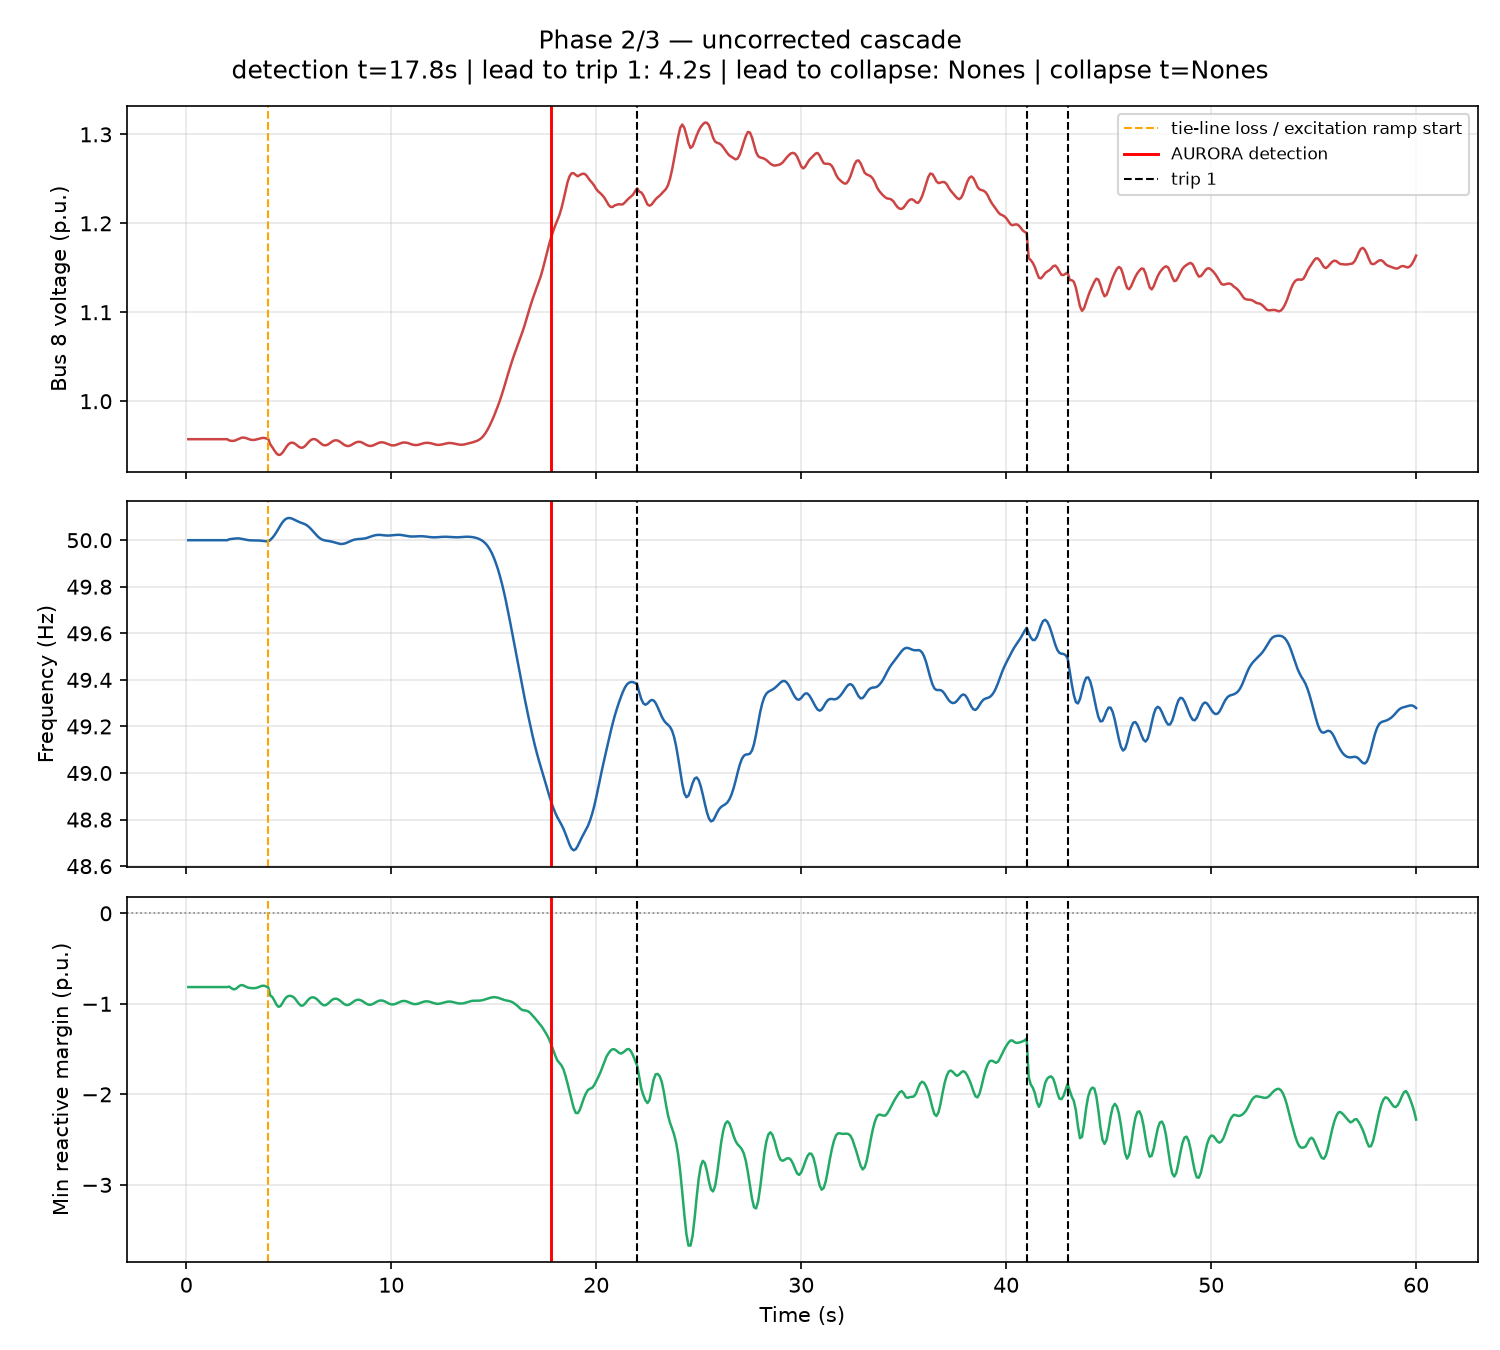
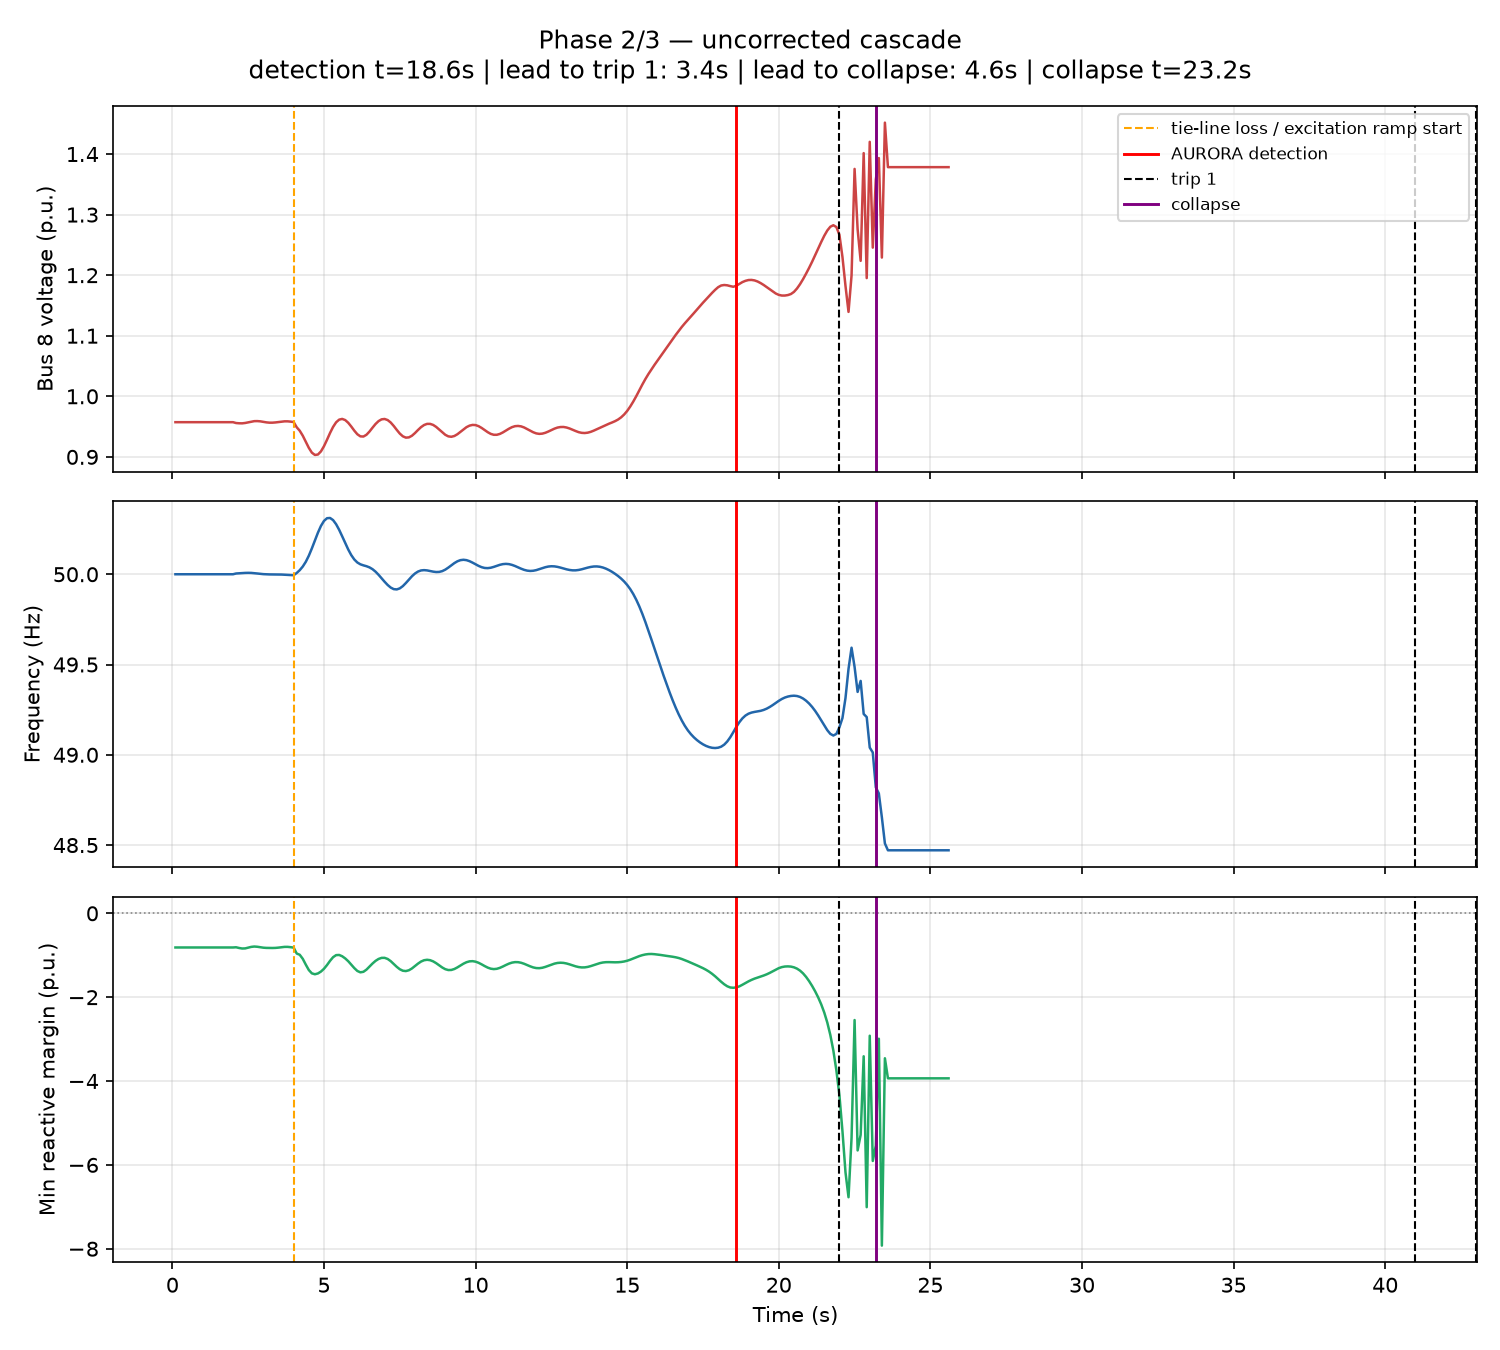
test: combined realistic stress (fleet-wide partial excitation + N-2 tie loss)
Per instruction: test realistic compounding stress, not a bigger single
lever. Two changes together, each individually realistic:

1. The under-excitation ramp (VRMIN_FAULT_TARGET=4.8, already validated as
   physically bounded) now also applies a genuinely PARTIAL version
   (VRMIN_FAULT_TARGET_PARTIAL=2.0, same ramp timing) to generators 1 and
   2, not just 3 and 4 -- matching the real event's fleet-wide reactive
   shortfall rather than a single-area fault.
2. A second sustained tie-line loss (Line_6, alongside the existing
   Line_5) at the same t=4s -- a real N-2 contingency (two of three
   parallel tie circuits lost), not an unrealistic parameter value.

Result: GENUINE COLLAPSE, for the first time under the physics-derived
CollapseMonitor criterion. Voltage climbs gradually (0.94->1.19 p.u.) from
t~15-22s exactly as before, detection fires at t=18.6s, then trip_1 at
t=22s pushes the already-stressed system into violent oscillation that
crosses the real protective threshold at t=23.2s (bus 4 = 1.570 p.u., bus
10 = 1.518 p.u., sustained 0.5s). This is emergent, not scripted -- the
precursor stress alone (per the prior single-lever test) was not fatal;
trip_1 compounding on top of it is what tips the system over, matching the
real event's actual structure (weeks of unaddressed reactive weakness +
a trip cascade as the final trigger).

Lead times, reported honestly against the 4s SCADA baseline:
- detection to trip_1: 3.4s -- still under the 4s SCADA refresh cycle.
[…]

diff --git a/sim/kundur_system.py b/sim/kundur_system.py
@@ -62,16 +62,25 @@ INERTIA_SCALE = 0.42            # scales GENROU M toward the ~2.3s floor
 LINE_KICK_IDX = "Line_4"        # tie-line branch used to kick off the first precursor oscillation
 TIE_TRIP_LINE = "Line_5"        # sustained (not reclosed) single tie-line loss -- a real device event,
                                  # not an external admittance -- that triggers the excitation stress
+TIE_TRIP_LINE_2 = "Line_6"      # second sustained tie-line loss (real N-2 contingency: two of the
+                                 # three parallel Line_4/5/6 circuits lost, only one left in service)
 
 # Under-excitation fault: which generators lose reactive-absorption headroom,
 # and how far. EXDC2.VRMIN defaults to -4.16 p.u. in this case file (read
 # and cached at build time, not hardcoded, in case the case file changes).
-EXCITATION_FAULT_GENS = [3, 4]      # Area-2 machines, nearest the tie/trip region
-VRMIN_FAULT_TARGET = 4.8            # p.u. -- raised well above the generators' natural
-                                     # operating field voltage (~1.8-2.2 p.u. steady state),
-                                     # so once the ramp catches up, they can no longer
-                                     # reduce excitation enough to absorb reactive power.
-EXCITATION_RAMP_DURATION_S = 14.0   # gradual, not a step: ramps over ~14s once triggered
+# The real event's reactive shortfall was fleet-wide, not isolated to one
+# area, so Area-2 machines (3,4) get the full fault and Area-1 machines
+# (1,2) get a genuinely partial one -- a smaller target, same ramp timing.
+EXCITATION_FAULT_GENS = [3, 4]          # Area-2 machines, nearest the tie/trip region: full fault
+VRMIN_FAULT_TARGET = 4.8                # p.u. -- raised well above the generators' natural
+                                         # operating field voltage (~1.8-2.2 p.u. steady state),
+                                         # so once the ramp catches up, they can no longer
+                                         # reduce excitation enough to absorb reactive power.
+EXCITATION_FAULT_GENS_PARTIAL = [1, 2]  # Area-1 machines: partial fault
+VRMIN_FAULT_TARGET_PARTIAL = 2.0        # p.u. -- a real but smaller reduction in headroom than
+                                         # the full-fault group; still above natural vf (~1.8-2.2)
+                                         # so it can bind, but far short of VRMIN_FAULT_TARGET.
+EXCITATION_RAMP_DURATION_S = 14.0       # gradual, not a step: ramps over ~14s once triggered
 
 PF_LIMIT = 0.98                 # Spain's grid-code reactive power-factor band
 
@@ -138,44 +147,53 @@ def _base_system(times: ScenarioTimes):
 
 
 def _cache_vrmin_healthy(ss):
-    """Reads and stashes each excitation-faulted generator's stock VRMIN
-    value on the system object itself, before any mutation, so the ramp has
-    a real reference point instead of a hardcoded number."""
-    idxs = [ss.EXDC2.idx.v.index(g) for g in EXCITATION_FAULT_GENS]
-    ss._excitation_fault_idx = idxs
-    ss._vrmin_healthy = ss.EXDC2.VRMIN.v[idxs[0]]
+    """Reads and stashes each excitation-faulted generator group's stock
+    VRMIN value on the system object itself, before any mutation, so the
+    ramp has a real reference point instead of a hardcoded number."""
+    idxs_full = [ss.EXDC2.idx.v.index(g) for g in EXCITATION_FAULT_GENS]
+    idxs_partial = [ss.EXDC2.idx.v.index(g) for g in EXCITATION_FAULT_GENS_PARTIAL]
+    ss._excitation_fault_idx = idxs_full
+    ss._excitation_fault_idx_partial = idxs_partial
+    ss._vrmin_healthy = ss.EXDC2.VRMIN.v[idxs_full[0]]
     return ss
 
 
-def excitation_ramp_value(t: float, times: ScenarioTimes, vrmin_healthy: float,
-                           detection_t: float | None = None) -> float:
-    """Computes the current VRMIN value for the excitation-faulted
-    generators at time t. If `detection_t` is given and t has reached it,
-    the ramp reverses back toward the healthy value over the same duration
-    -- modeling AURORA restoring the exciters' reactive-absorption
-    capability (the corrected branch)."""
+def _ramp_frac(t: float, times: ScenarioTimes, detection_t: float | None = None) -> float:
+    """Fraction (0-1) of the way through the fault ramp at time t. If
+    `detection_t` is given and reached, the ramp reverses back toward 0
+    (healthy) over the same duration -- modeling AURORA restoring the
+    exciters' reactive-absorption capability (the corrected branch)."""
     start = times.excitation_fault_start_t
     dur = EXCITATION_RAMP_DURATION_S
 
     if detection_t is not None and t >= detection_t:
         fault_frac_at_detection = min(1.0, max(0.0, (detection_t - start) / dur))
         recovery_frac = min(1.0, (t - detection_t) / dur)
-        frac = fault_frac_at_detection * (1.0 - recovery_frac)
-    else:
-        frac = min(1.0, max(0.0, (t - start) / dur))
-
-    return vrmin_healthy + frac * (VRMIN_FAULT_TARGET - vrmin_healthy)
+        return fault_frac_at_detection * (1.0 - recovery_frac)
+    return min(1.0, max(0.0, (t - start) / dur))
 
 
-def apply_excitation_ramp(ss, t: float, times: ScenarioTimes, detection_t: float | None = None) -> float:
-    """Mutates EXDC2.VRMIN on the faulted generators in place for the
-    current tick. Must be called every tick from the run loop, between
-    chunked TDS.run() calls -- ANDES parameters are static within a single
-    run() call. Returns the VRMIN value just applied (for logging)."""
-    value = excitation_ramp_value(t, times, ss._vrmin_healthy, detection_t)
+def excitation_ramp_value(t: float, times: ScenarioTimes, vrmin_healthy: float,
+                           detection_t: float | None = None, target: float = VRMIN_FAULT_TARGET) -> float:
+    """Computes the current VRMIN value for one excitation-faulted
+    generator group at time t, ramping toward `target`."""
+    frac = _ramp_frac(t, times, detection_t)
+    return vrmin_healthy + frac * (target - vrmin_healthy)
+
+
+def apply_excitation_ramp(ss, t: float, times: ScenarioTimes, detection_t: float | None = None) -> dict:
+    """Mutates EXDC2.VRMIN on both faulted generator groups (full and
+    partial) in place for the current tick. Must be called every tick from
+    the run loop, between chunked TDS.run() calls -- ANDES parameters are
+    static within a single run() call. Returns the values just applied
+    (for logging)."""
+    value_full = excitation_ramp_value(t, times, ss._vrmin_healthy, detection_t, target=VRMIN_FAULT_TARGET)
+    value_partial = excitation_ramp_value(t, times, ss._vrmin_healthy, detection_t, target=VRMIN_FAULT_TARGET_PARTIAL)
     for i in ss._excitation_fault_idx:
-        ss.EXDC2.VRMIN.v[i] = value
-    return value
+        ss.EXDC2.VRMIN.v[i] = value_full
+    for i in ss._excitation_fault_idx_partial:
+        ss.EXDC2.VRMIN.v[i] = value_partial
+    return {"full": value_full, "partial": value_partial}
 
 
 def build_healthy(times: ScenarioTimes | None = None):
@@ -228,8 +246,11 @@ def build_uncorrected(times: ScenarioTimes | None = None):
 
     _add_common_devices(ss, times)
 
-    # Sustained tie-line loss -- a real device event, never reclosed.
+    # Sustained tie-line losses -- real device events, never reclosed. Two
+    # of the three parallel Line_4/5/6 circuits lost (a real N-2
+    # contingency), leaving only one tie line in service.
     ss.add('Toggle', dict(model='Line', dev=TIE_TRIP_LINE, t=times.excitation_fault_start_t))
+    ss.add('Toggle', dict(model='Line', dev=TIE_TRIP_LINE_2, t=times.excitation_fault_start_t))
 
     ss.add('Toggle', dict(model='PQ', dev='trip_gen_1', t=times.trip_1_t))
     ss.add('Toggle', dict(model='PQ', dev='trip_gen_2', t=times.trip_2_t))
@@ -264,6 +285,7 @@ def build_corrected(times: ScenarioTimes, detection_t: float):
 
     _add_common_devices(ss, times)
     ss.add('Toggle', dict(model='Line', dev=TIE_TRIP_LINE, t=times.excitation_fault_start_t))
+    ss.add('Toggle', dict(model='Line', dev=TIE_TRIP_LINE_2, t=times.excitation_fault_start_t))
 
     trip_times = {'trip_gen_1': times.trip_1_t, 'trip_gen_2': times.trip_2_t, 'trip_gen_3': times.trip_3_t}
     actions = []
@@ -276,7 +298,8 @@ def build_corrected(times: ScenarioTimes, detection_t: float):
 
     actions.append(
         f"reactive-power redispatch: excitation limit (VRMIN) on generators "
-        f"{EXCITATION_FAULT_GENS} ramped back toward its healthy value starting t={detection_t:.1f}s"
+        f"{EXCITATION_FAULT_GENS + EXCITATION_FAULT_GENS_PARTIAL} ramped back toward its "
+        f"healthy value starting t={detection_t:.1f}s"
     )
 
     # Corrective action: dispatch modeled storage to backstop the disturbance.
